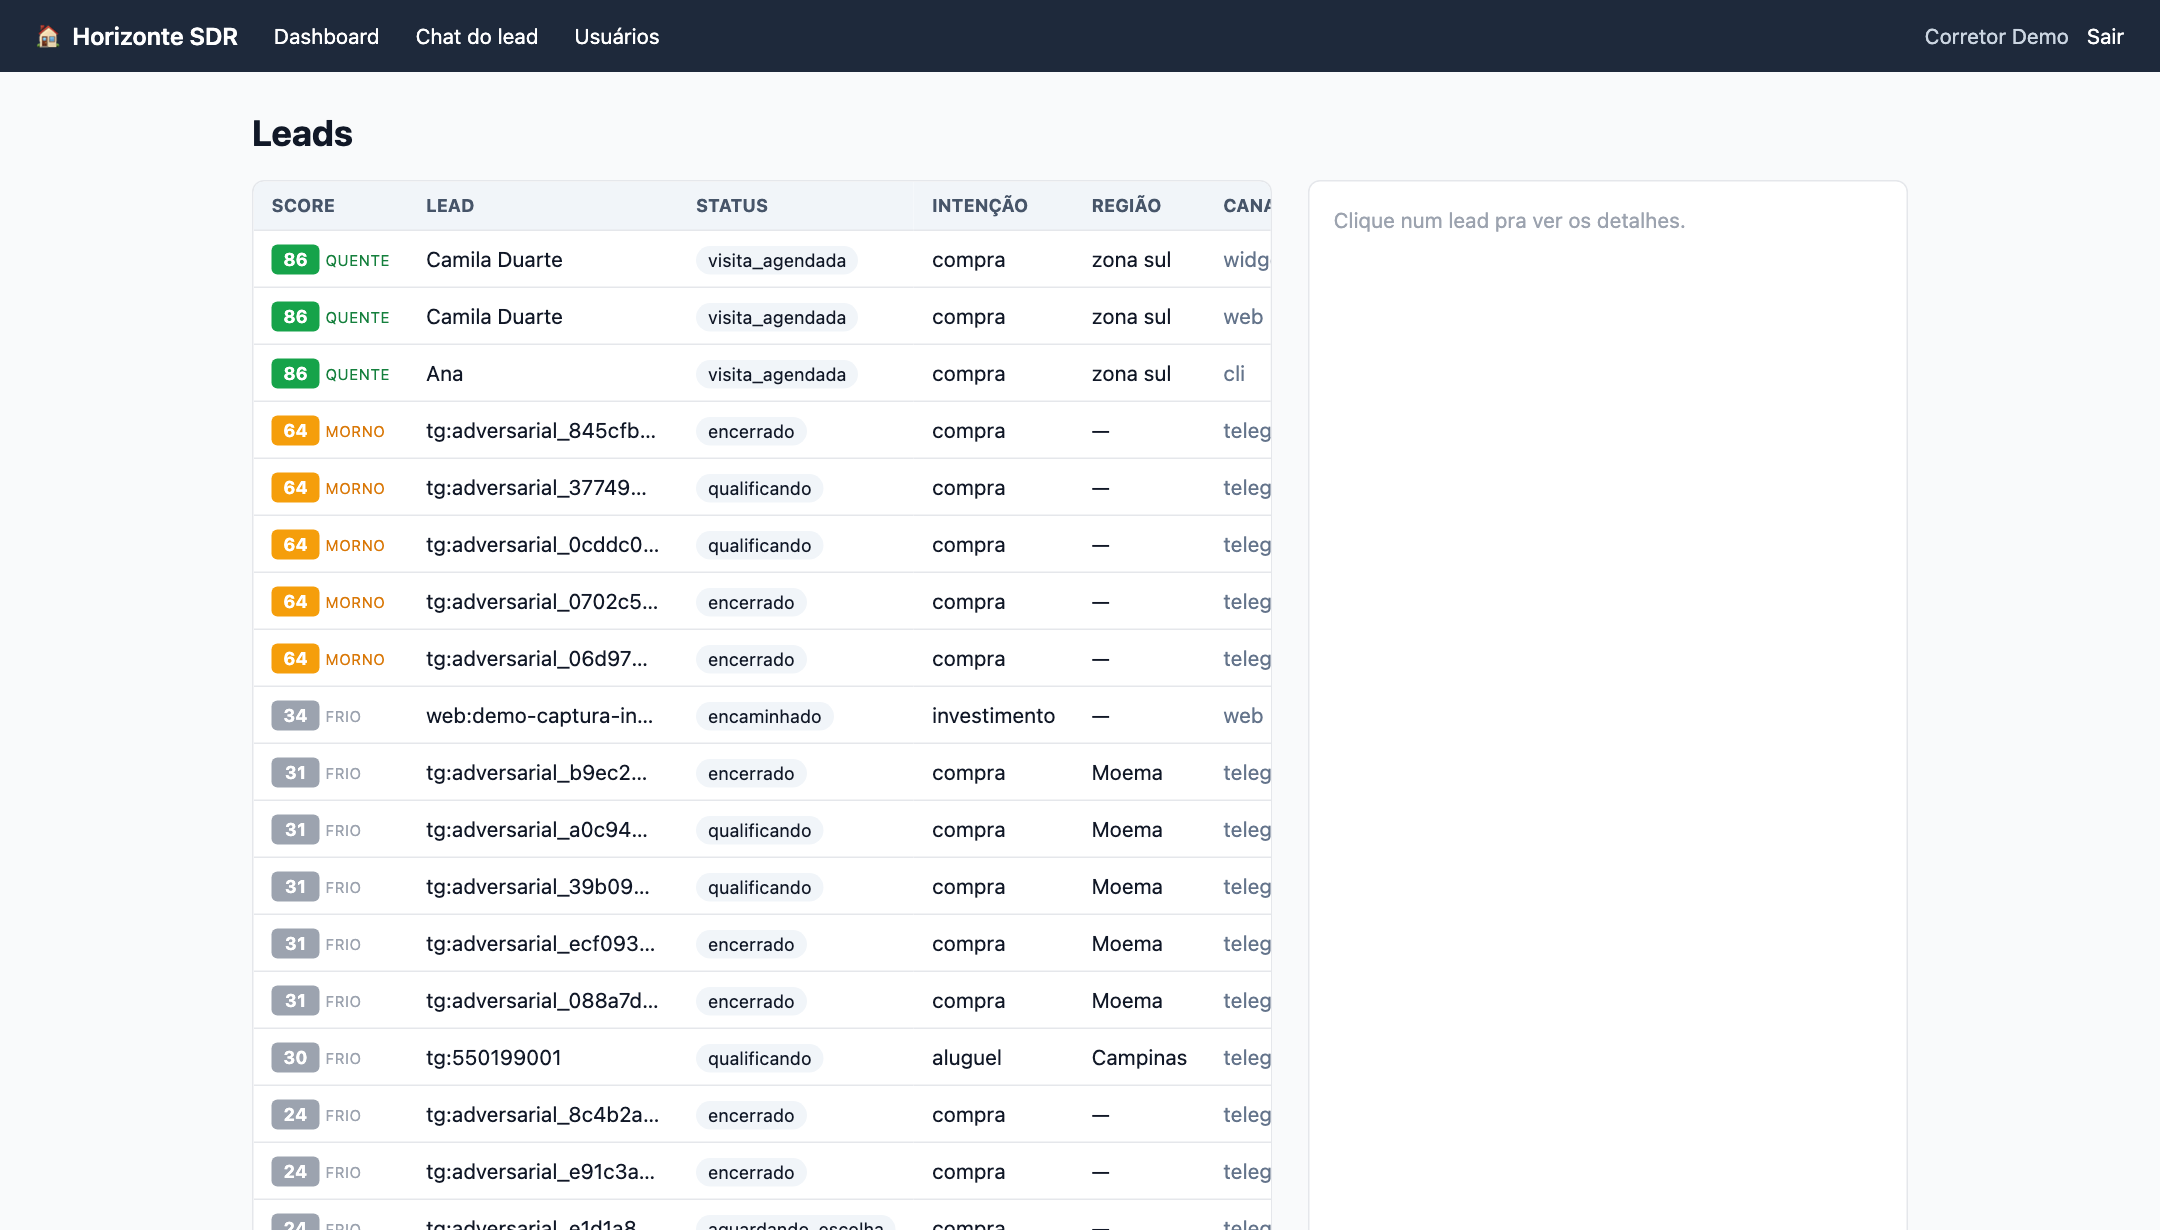
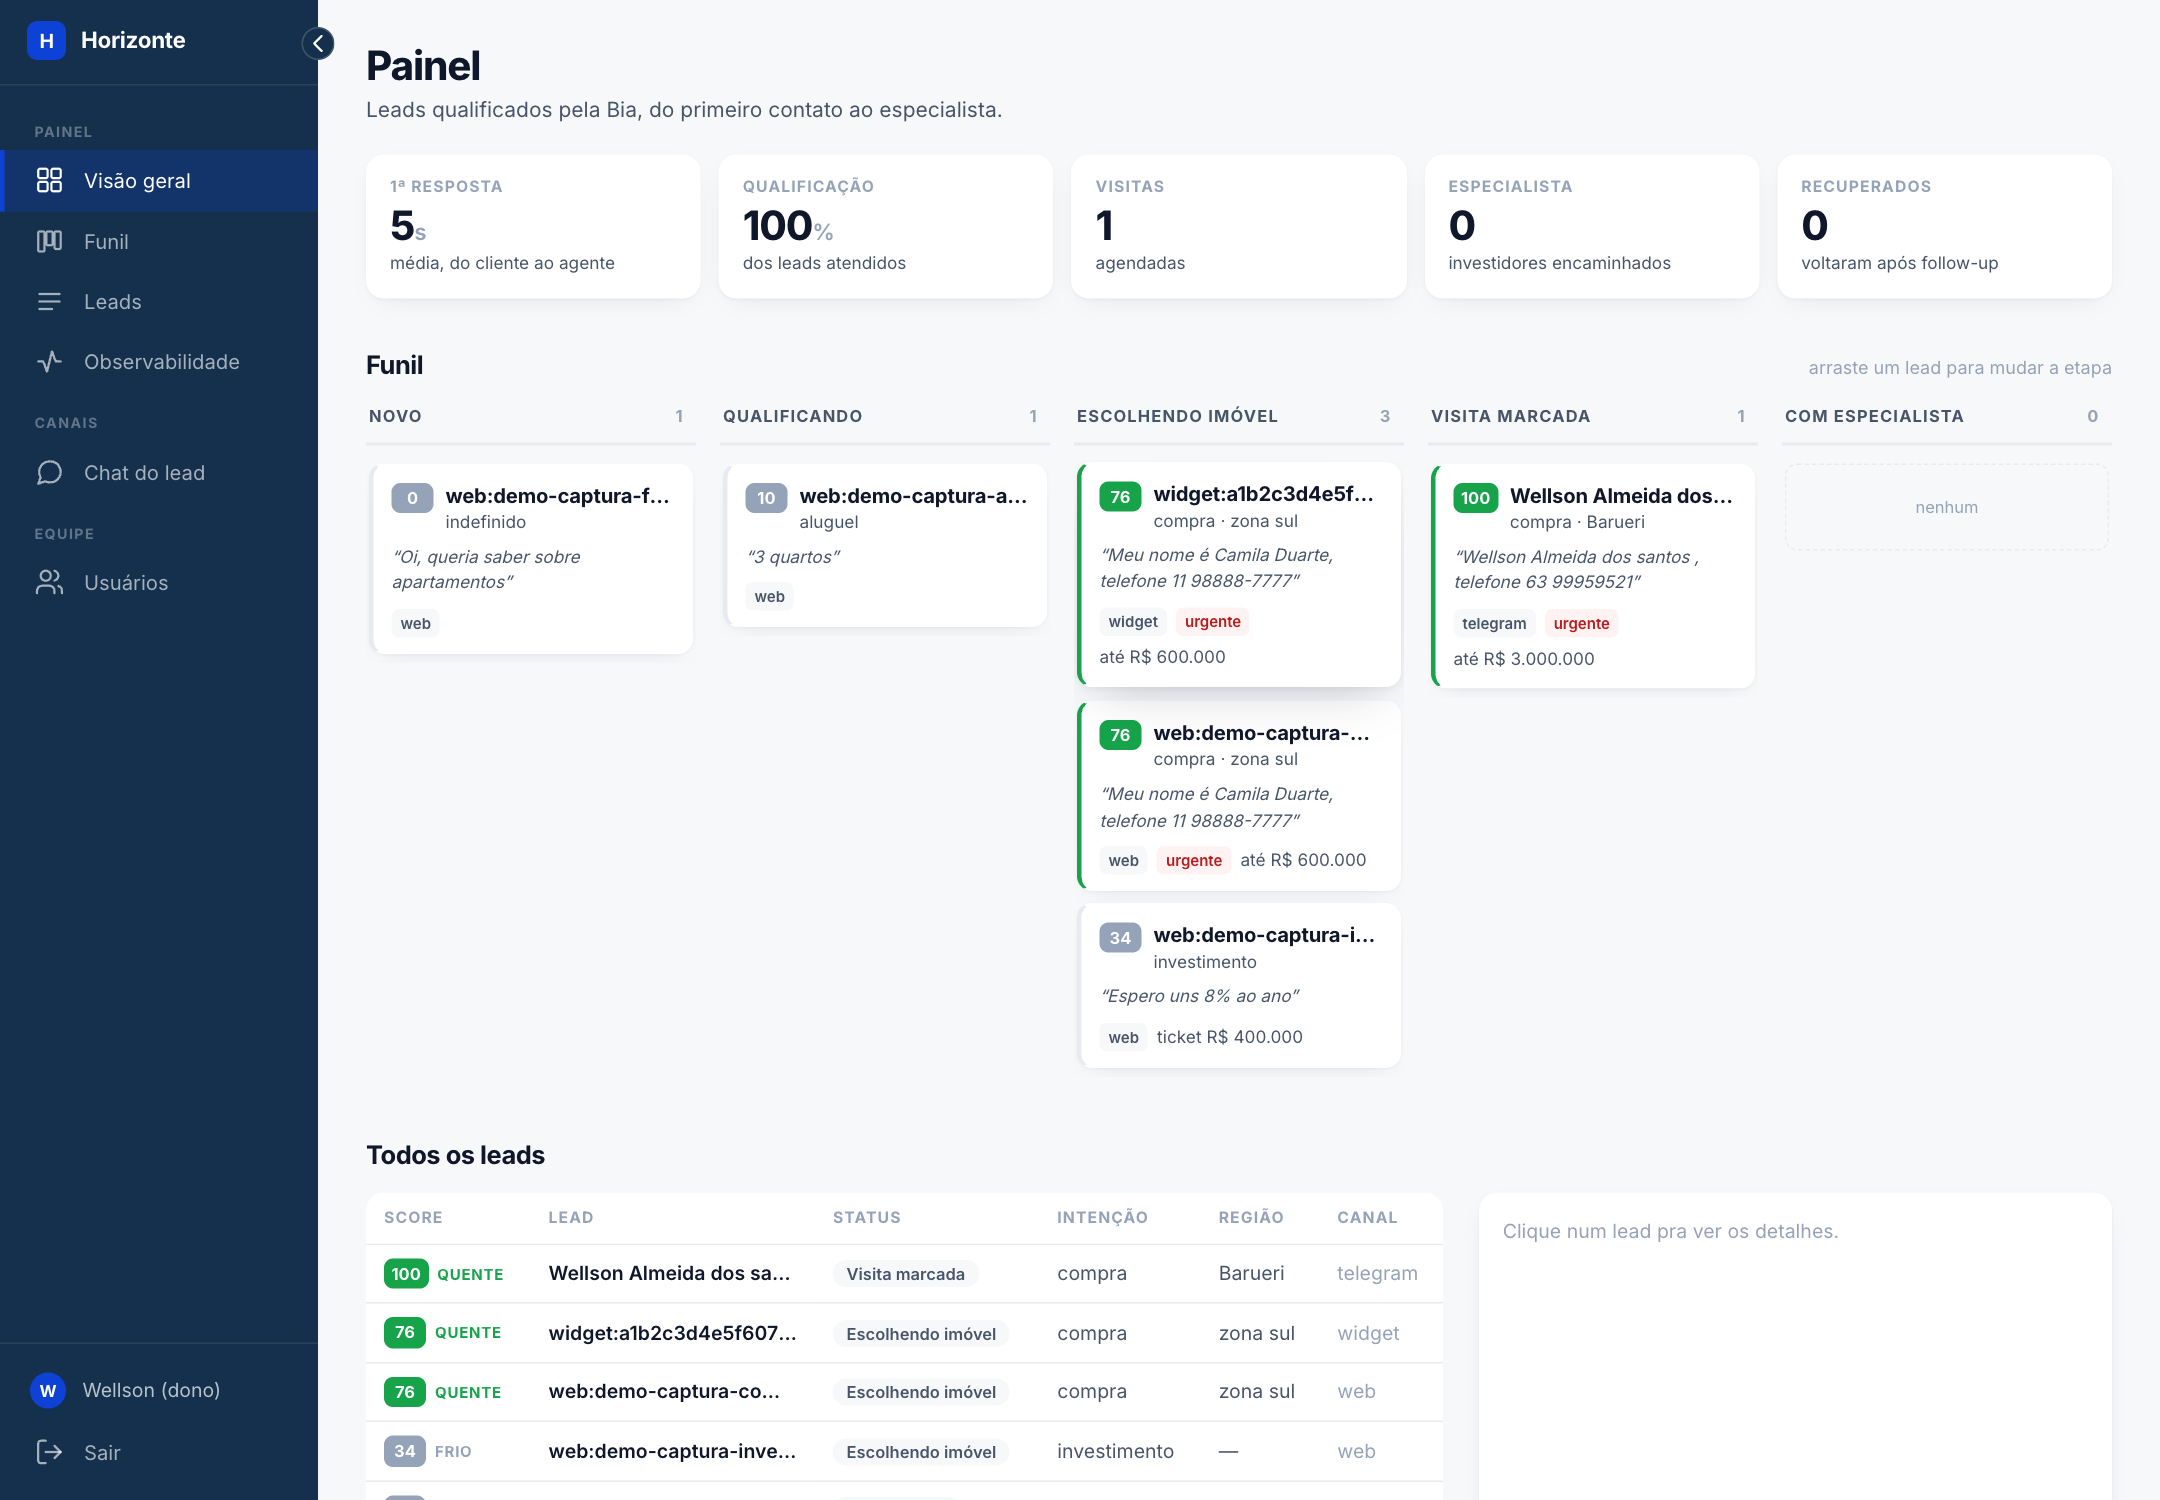
feat: update environment configuration and enhance README with site details and image descriptions

diff --git a/docs/imagens/README.md b/docs/imagens/README.md
@@ -22,11 +22,12 @@ passa a mostrar uma tela que não existe mais.
 
 | Arquivo | O que mostra | Refazer quando muda |
 |---|---|---|
-| `dashboard.png` | Lista de leads ordenada por score, com o selo **quente/morno/frio**, status, intenção, região e canal | As colunas da tabela, o selo de prioridade, as faixas de `SCORE_QUENTE`/`SCORE_MORNO` em [`core/scoring.py`](../../app/core/scoring.py), o nav do painel |
+| `dashboard.png` | Painel: indicadores do topo, **funil** arrastável por etapa e lista de leads com o selo **quente/morno/frio** | As colunas da tabela, o selo de prioridade, as faixas de `SCORE_QUENTE`/`SCORE_MORNO` em [`core/scoring.py`](../../app/core/scoring.py), o nav do painel |
 | `lead-detalhe.png` | Detalhe do lead com o **score aberto**: cada parcela com pontos, máximo, barra e motivo, mais "falta perguntar" e o resumo pro corretor | A fórmula ou as parcelas do score; os rótulos de `CAMPOS_POR_INTENCAO`; o bloco de resumo; os slots exibidos |
 | `observabilidade.png` | Aba de traces: **custo real US$ 0,00** ao lado do contrafactual "se fosse nuvem", custo por conversa, latência p50/p95/pior, tokens/s e quebra por agente | Os cartões de indicador; as parcelas do custo em [`core/custo.py`](../../app/core/custo.py); os preços de referência do `.env`; as colunas da tabela por agente |
 | `chat-web.png` | Chat do lead no navegador, fim da conversa de compra: qualificação, cartões de imóveis com foto, preço e **código** (`CAM-0006`), e a confirmação da visita | O visual do chat ou da galeria; as frases do roteiro de compra; o formato do cartão de imóvel; o texto de confirmação de visita |
-| `widget.png` | A Bia embutida num site de imobiliária de terceiro: bolha flutuante e o chat aberto no iframe, com a marca do site | O `widget.js` (bolha, painel, cores); a página `/embed`; o cabeçalho com `data-brand` |
+| `site.png` | Site da Horizonte Imóveis (`site/`, porta 5500): hero, busca e destaques do catálogo real | O layout do site em `site/build.py` |
+| `widget.png` | A Bia embutida no site da imobiliária: o chat aberto no iframe, com a marca do site | O `widget.js` (bolha, painel, cores); a página `/embed`; o cabeçalho com `data-brand` |
 | `injection.png` | Observabilidade com uma tentativa de **prompt injection** marcada: tipo classificado e o texto cru que o cliente enviou | Os tipos de `_PADROES` em [`core/injecao.py`](../../app/core/injecao.py); os rótulos; o bloco na aba de traces |
 
 As fotos dos imóveis são **as do próprio anúncio**, do catálogo real de uma imobiliária parceira. Ficam em

diff --git a/README.md b/README.md
@@ -150,14 +150,15 @@ O que diferencia a solução:
      refazê-la, está em docs/imagens/README.md; scripts/screenshots/ refaz todas
      com o mesmo enquadramento. -->
 
-| Dashboard do corretor | Detalhe do lead, com o score aberto |
+| Painel do corretor: indicadores, funil e leads em tempo real | Detalhe do lead, com o score aberto |
 |---|---|
-| ![Lista de leads com selo quente/morno/frio](docs/imagens/dashboard.png) | ![Score decomposto em parcelas, com o que falta perguntar](docs/imagens/lead-detalhe.png) |
+| ![Indicadores, funil arrastável e lista de leads com selo quente/morno/frio](docs/imagens/dashboard.png) | ![Score decomposto em parcelas, resumo pro corretor e conversa](docs/imagens/lead-detalhe.png) |
+| **Site da imobiliária** ([168.0.198.45:5500](http://168.0.198.45:5500)) | **A Bia embutida no site, atendendo** |
+| ![Site da Horizonte Imóveis com busca e destaques](docs/imagens/site.png) | ![Widget da Bia aberto no site, qualificando o lead](docs/imagens/widget.png) |
 | **Observabilidade: custo, p95 e injeções** | **Chat do lead, com galeria de imóveis** |
 | ![Custo real zero ao lado do contrafactual, latência p95 e tentativas de injection](docs/imagens/observabilidade.png) | ![Conversa com cartões de imóveis e fotos](docs/imagens/chat-web.png) |
 
-Mais telas: [a Bia embutida no site de uma imobiliária](docs/imagens/widget.png) ·
-[tentativa de prompt injection, marcada e classificada](docs/imagens/injection.png).
+Mais telas: [tentativa de prompt injection, marcada e classificada](docs/imagens/injection.png).
 
 ---
 
